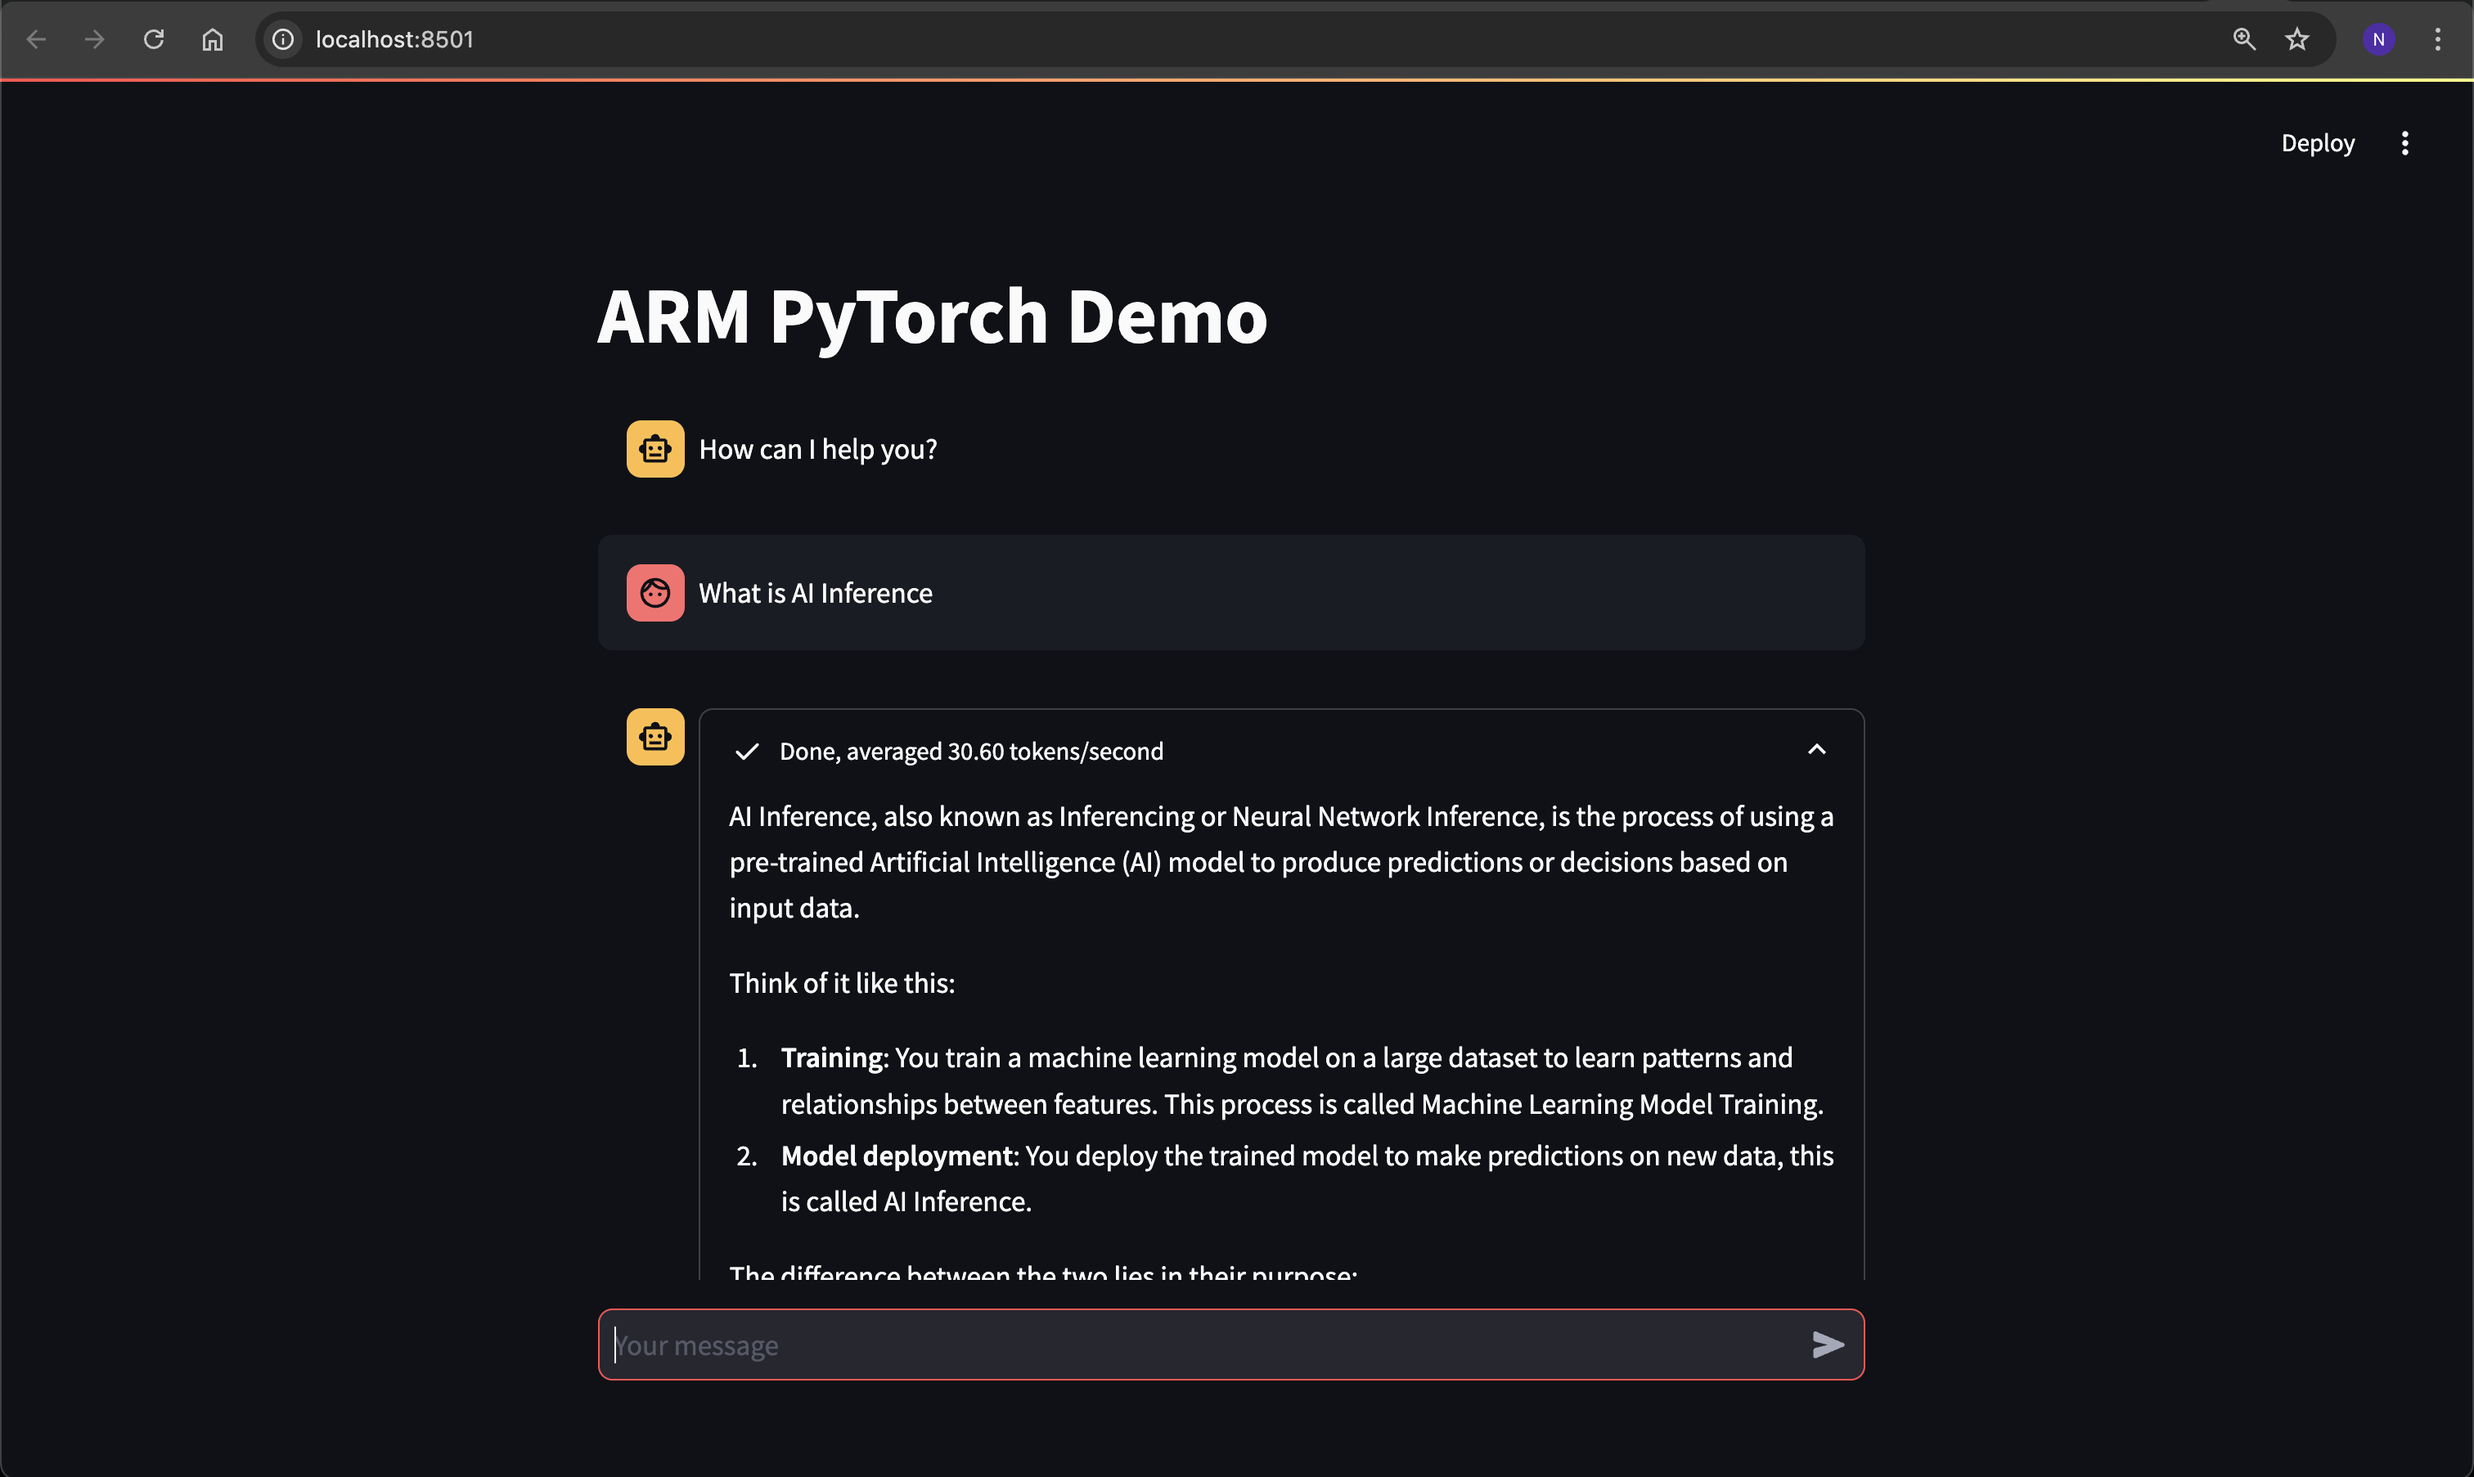
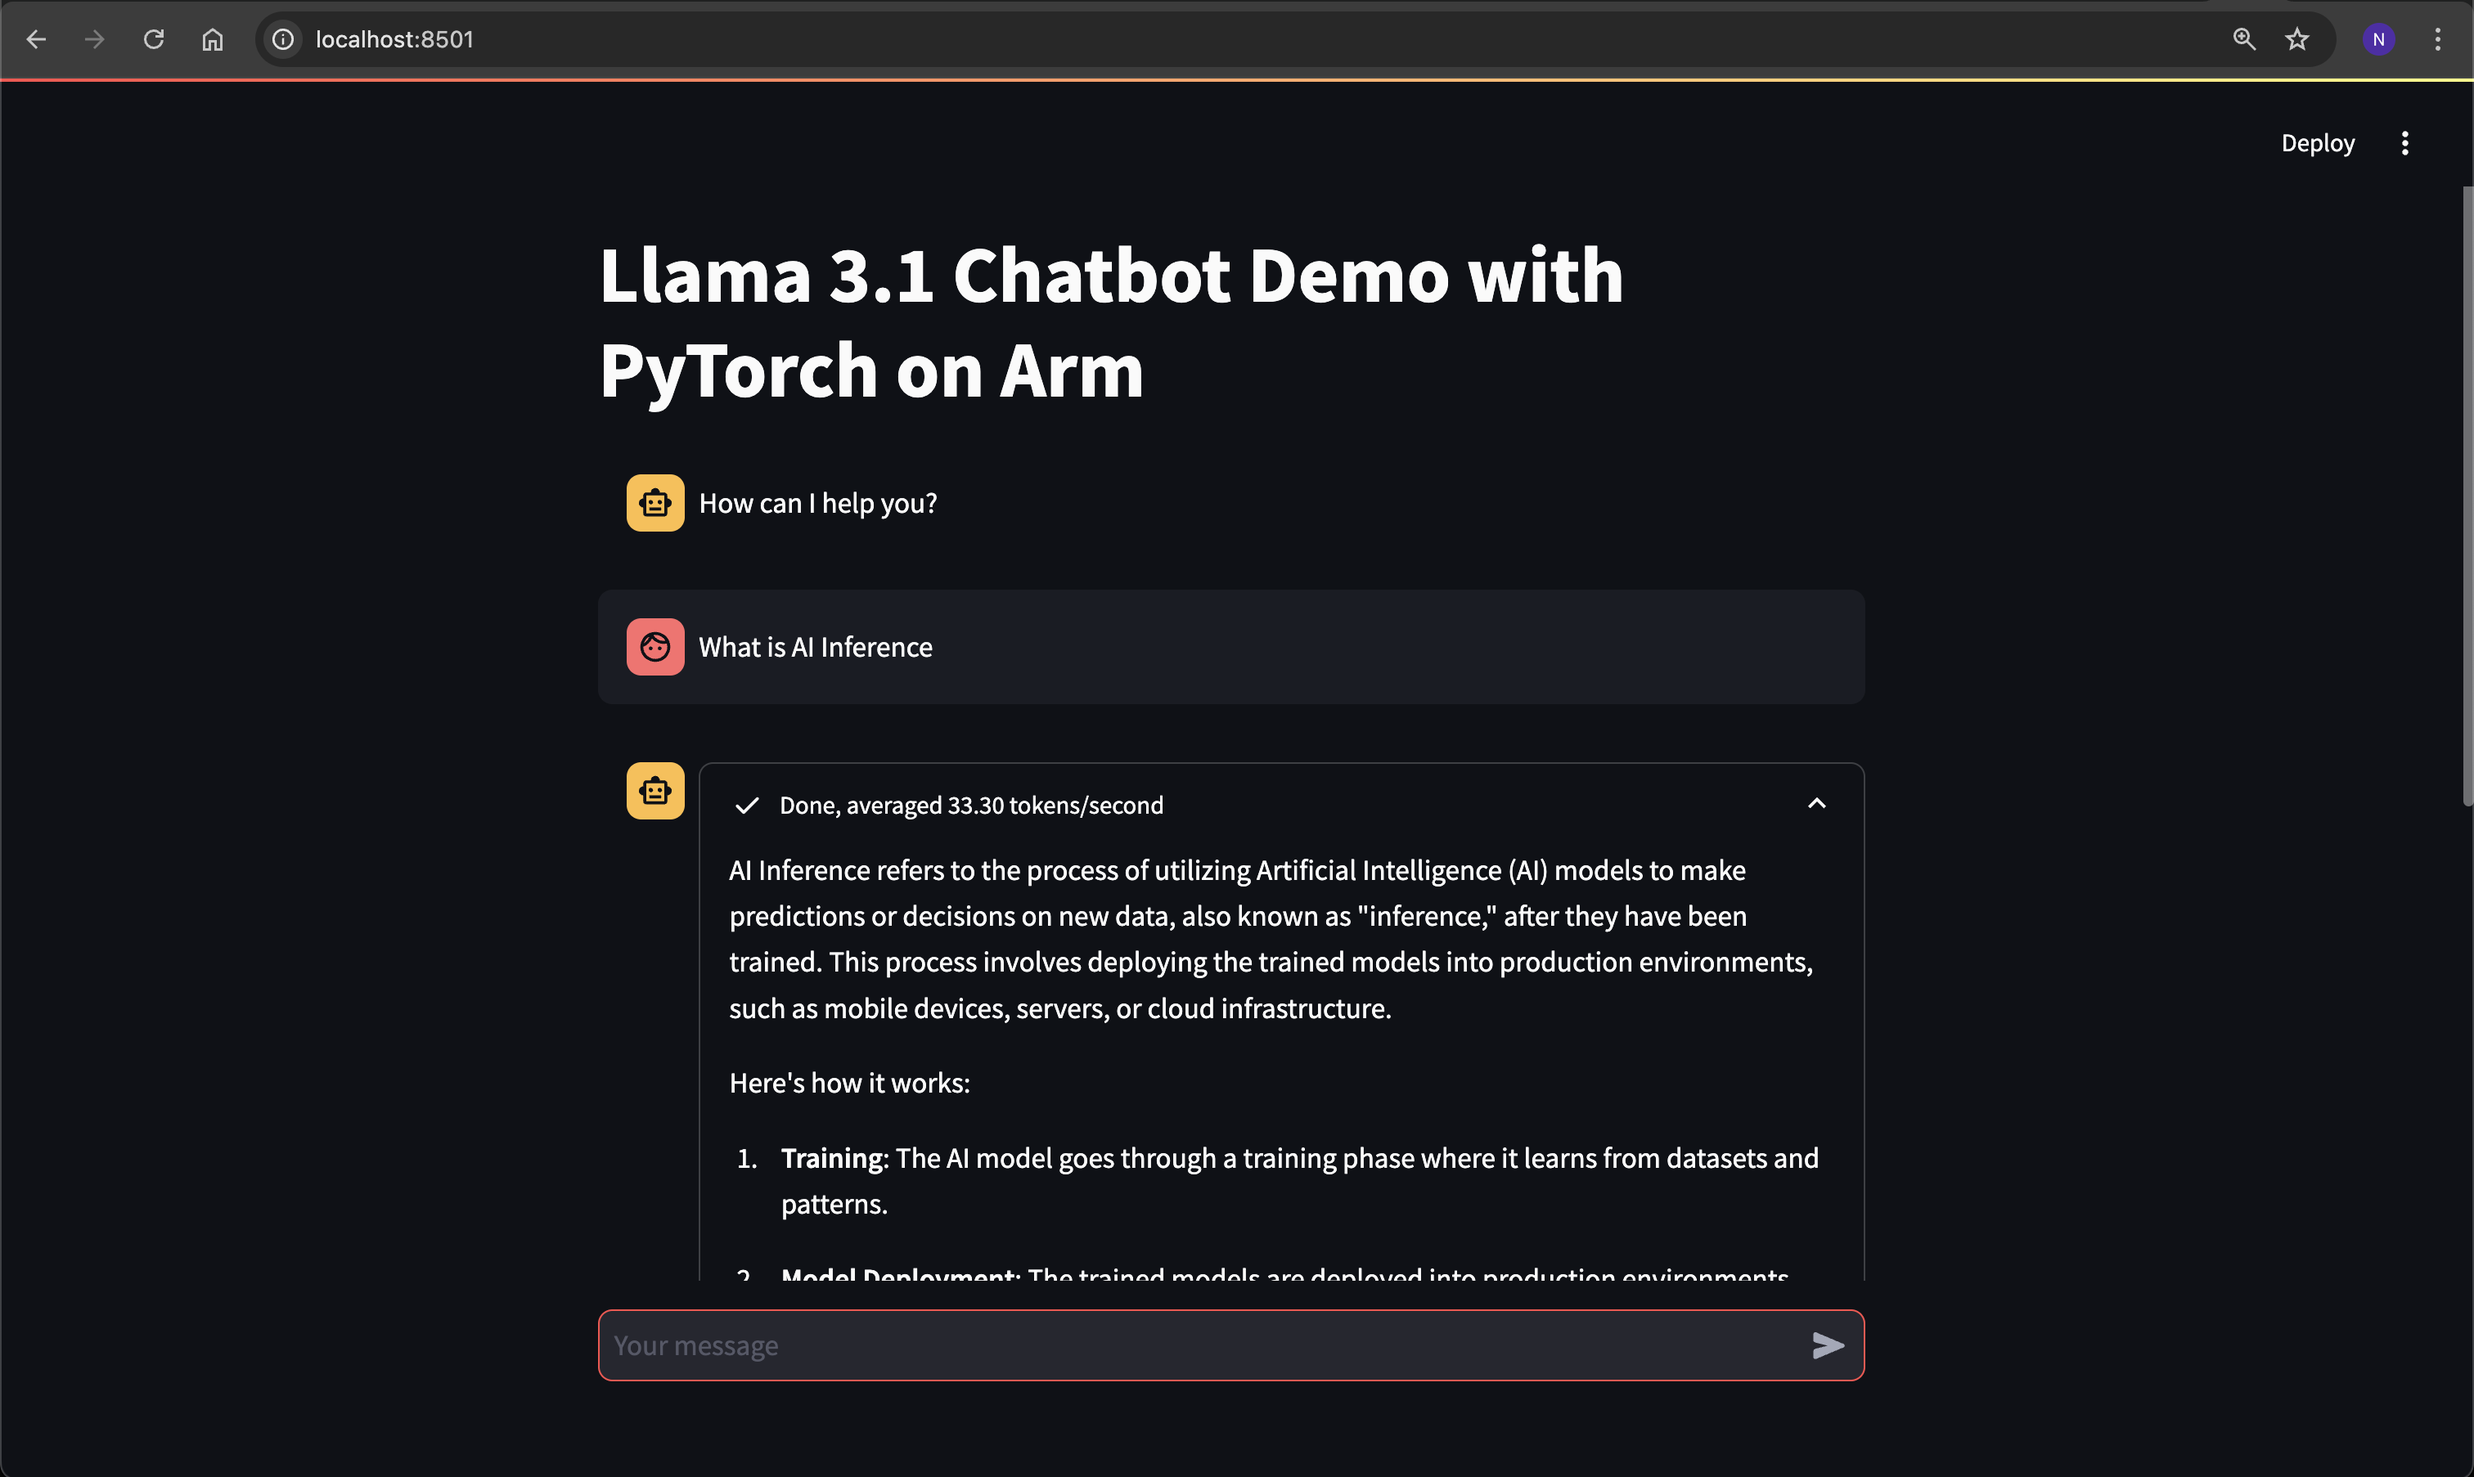
changes in pytorch-llama learning path

diff --git a/content/learning-paths/servers-and-cloud-computing/pytorch-llama/pytorch-llama-frontend.md b/content/learning-paths/servers-and-cloud-computing/pytorch-llama/pytorch-llama-frontend.md
@@ -59,7 +59,7 @@ import streamlit as st
 import time
 from openai import OpenAI
 
-st.title("ARM PyTorch Demo")
+st.title("Llama 3.1 Chatbot Demo with PyTorch on Arm")
 response_max_tokens = 1024
 start_state = [
     {"role": "assistant", "content": "How can I help you?"},
